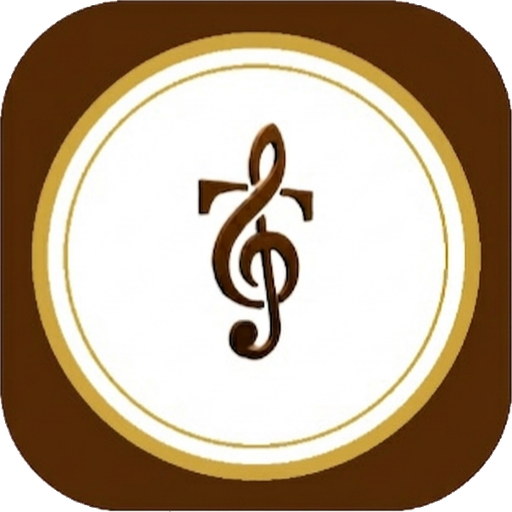
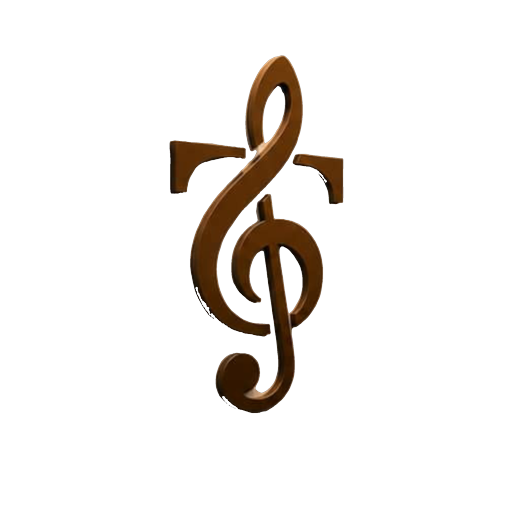
تعديلات الايقونات حسب الطلب

diff --git a/app/page.js b/app/page.js
@@ -540,7 +540,7 @@ export default function Home() {
                   <img src="/apple-touch-icon.png" alt="استوديو زفات تباريك للصوتيات" style={{ width: '38px', height: '38px', objectFit: 'contain' }} />
                 </span>
                 <span className="studio-name-desktop">استوديو زفات تباريك للصوتيات</span>
-                <span className="studio-name-mobile">ZAFAT TABARIK</span>
+                <span className="studio-name-mobile">استوديو زفات تباريك</span>
               </h1>
 
               <div className="header-left">
@@ -1491,7 +1491,7 @@ export default function Home() {
 
                 {/* 3D Wall Logo Display Card (Inspired by Studio Wall Sign) */}
                 <div style={{
-                  background: 'linear-gradient(135deg, #1c140a 0%, #2a1a0c 50%, #140c06 100%)',
+                  background: 'linear-gradient(135deg, #756a5dff 0%, #2a1a0c 50%, #140c06 100%)',
                   borderRadius: '16px',
                   padding: '24px 18px',
                   border: '1px solid rgba(204, 164, 59, 0.4)',
@@ -1503,7 +1503,7 @@ export default function Home() {
                   {/* Background ambient glow */}
                   <div style={{
                     position: 'absolute', top: '-40%', right: '-20%', width: '200px', height: '200px',
-                    background: 'radial-gradient(circle, rgba(204,164,59,0.18) 0%, transparent 70%)',
+                    background: 'radial-gradient(circle, rgba(104, 76, 6, 0.18) 0%, transparent 70%)',
                     pointerEvents: 'none'
                   }} />
 
@@ -1528,8 +1528,8 @@ export default function Home() {
                         src="/logo.png"
                         alt="ZAFAT TABARIK STUDIO"
                         style={{
-                          width: '82px',
-                          height: '82px',
+                          width: '92px',
+                          height: '92px',
                           objectFit: 'contain',
                           transform: 'perspective(400px) rotateY(-6deg)'
                         }}
